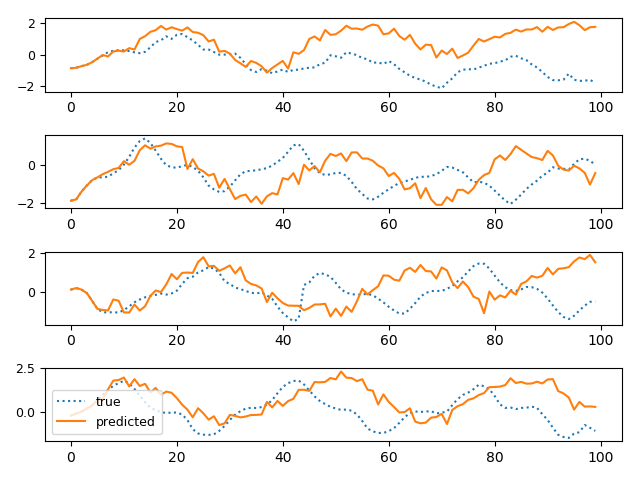
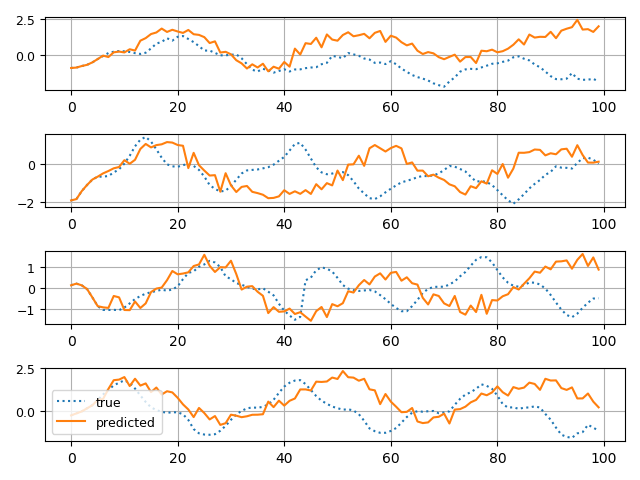
add cost descending figure.

diff --git a/crbm.py b/crbm.py
@@ -1,16 +1,15 @@
-""" Theano CRBM implementation.
+''' Theano CRBM implementation.
 
 For details, see:
 http://www.uoguelph.ca/~gwtaylor/publications/nips2006mhmublv
 Sample data:
 http://www.uoguelph.ca/~gwtaylor/publications/nips2006mhmublv/motion.mat
 
-@author Graham Taylor"""
+@author Graham Taylor'''
 
-from __future__ import print_function
 import numpy
 import numpy as np
-import time
+import timeit
 
 import theano
 import theano.tensor as T
@@ -21,12 +20,12 @@ from motion import load_data
 
 
 class CRBM(object):
-    """Conditional Restricted Boltzmann Machine (CRBM)  """
+    '''Conditional Restricted Boltzmann Machine (CRBM)  '''
     def __init__(self, input=None, input_history=None, n_visible=49,
                  n_hidden=500, delay=6, A=None, B=None, W=None, hbias=None,
                  vbias=None, numpy_rng=None,
                  theano_rng=None):
-        """
+        '''
         CRBM constructor. Defines the parameters of the model along with
         basic operations for inferring hidden from visible (and vice-versa),
         as well as for performing CD updates.
@@ -56,7 +55,7 @@ class CRBM(object):
 
         :param vbias: None for standalone RBMs or a symbolic variable
         pointing to a shared visible units bias
-        """
+        '''
 
         self.n_visible = n_visible
         self.n_hidden = n_hidden
@@ -210,7 +209,7 @@ class CRBM(object):
         return [pre_sigmoid_h1, h1_mean, h1_sample, v1_mean, v1_sample]
 
     def get_cost_updates(self, lr=0.1, k=1):
-        """
+        '''
         This functions implements one step of CD-k
 
         :param lr: learning rate used to train the RBM
@@ -223,7 +222,7 @@ class CRBM(object):
         dictionary contains the update rules for weights and biases but
         also an update of the shared variable used to store the persistent
         chain, if one is used.
-        """
+        '''
 
         # compute positive phase
         pre_sigmoid_ph, ph_mean, ph_sample = \
@@ -275,15 +274,15 @@ class CRBM(object):
         return monitoring_cost, updates
 
     def get_reconstruction_cost(self, updates, pre_sigmoid_nv):
-        """Approximation to the reconstruction error
-        """
+        '''Approximation to the reconstruction error
+        '''
         # sum over dimensions, mean over cases
         recon = T.mean(T.sum(T.sqr(self.input - pre_sigmoid_nv), axis=1))
 
         return recon
 
     def generate(self, orig_data, orig_history, n_samples, n_gibbs=30):
-        """ Given initialization(s) of visibles and matching history, generate
+        ''' Given initialization(s) of visibles and matching history, generate
         n_samples in future.
 
         orig_data : n_seq by n_visibles array
@@ -293,7 +292,7 @@ class CRBM(object):
         n_samples : int
             number of samples to generate forward
         n_gibbs : int
-            number of alternating Gibbs steps per iteration"""
+            number of alternating Gibbs steps per iteration'''
         n_seq = orig_data.shape[0]
         persistent_vis_chain = theano.shared(orig_data)
         persistent_history = theano.shared(orig_history)
@@ -318,7 +317,7 @@ class CRBM(object):
                                                     self.n_visible],
                               ), axis=1)
         # construct the function that implements our persistent chain.
-        # we generate the "mean field" activations for plotting and the actual
+        # we generate the 'mean field' activations for plotting and the actual
         # samples for reinitializing the state of our persistent chain
         sample_fn = theano.function([], [vis_mfs[-1], vis_samples[-1]],
                             updates=updates,
@@ -328,17 +327,18 @@ class CRBM(object):
         #print orig_data[:,1:5]
         #print vis_mf[:,1:5]
         generated_series = np.empty((n_seq, n_samples, self.n_visible))
-        for t in range(n_samples):
-            print("Generating frame %d" % t)
+        for t in range(0, n_samples):
+            print('\rGenerating frame %03d' % t, end='')
             vis_mf, vis_sample = sample_fn()
             generated_series[:, t, :] = vis_mf
+        print('')
         return generated_series
 
 
 def train_crbm(learning_rate=1e-3, training_epochs=300,
              dataset='./data/motion.mat', batch_size=100,
              n_hidden=100, delay=6):
-    """
+    '''
     Demonstrate how to train a CRBM.
     This is demonstrated on mocap data.
 
@@ -350,7 +350,7 @@ def train_crbm(learning_rate=1e-3, training_epochs=300,
 
     :param batch_size: size of a batch used to train the RBM
 
-    """
+    '''
 
     rng = numpy.random.RandomState(123)
     theano_rng = RandomStreams(rng.randint(2 ** 30))
@@ -406,11 +406,11 @@ def train_crbm(learning_rate=1e-3, training_epochs=300,
            name='train_crbm')
 
     plotting_time = 0.
-    start_time = time.clock()
+    start_time = timeit.default_timer()
 
     mean_cost_list = []
     # go through training epochs
-    for epoch in range(training_epochs):
+    for epoch in range(1, training_epochs+1):
 
         # go through the training set
         mean_cost = []
@@ -432,27 +432,30 @@ def train_crbm(learning_rate=1e-3, training_epochs=300,
             mean_cost += [this_cost]
 
         mean_cost_list.append(numpy.mean(mean_cost))
-        print('Training epoch %d, cost is ' % epoch, mean_cost_list[-1])
+        print('\rTraining epoch %03d, cost is %8.5f' % (epoch, mean_cost_list[-1]), end='')
+        if epoch % 50 == 0:
+            print('')
 
     cost_plot(mean_cost_list)
-    end_time = time.clock()
+    end_time = timeit.default_timer()
 
     pretraining_time = (end_time - start_time)
 
-    print(('Training took %f minutes' % (pretraining_time / 60.)))
+    print(('Training took %f seconds' % pretraining_time))
 
     return crbm, batchdata
 
 def cost_plot(mean_cost):
-    import pylab as plt
+    import matplotlib.pyplot as plt
 
     plt.plot(mean_cost, ',')
+    plt.grid(True)
     plt.xlabel('epoch')
     plt.ylabel('mean cost')
-    plt.savefig('cost.png')
+    plt.show()
 
 def plot(data_idx, bd, generated_series):
-    import pylab as plt
+    import matplotlib.pyplot as plt
 
     n_samples = generated_series[0].shape[0] - crbm.delay
     # plot first dimension of each sequence
@@ -465,13 +468,14 @@ def plot(data_idx, bd, generated_series):
         plt.plot(generated_series[i, :n_samples, 1], label='predicted',
                  linestyle='-')
         plt.yticks(fontsize=9)
+        plt.grid(True)
 
     leg = plt.legend()
     ltext = leg.get_texts()  # all the text.Text instance in the legend
     plt.setp(ltext, fontsize=9)
 
     plt.tight_layout()
-    plt.savefig('result.png')
+    plt.show()
 
 if __name__ == '__main__':
     crbm, batchdata = train_crbm()

diff --git a/motion.py b/motion.py
@@ -1,4 +1,5 @@
-""" Mocap data
+'''
+Mocap data
 See: http://www.uoguelph.ca/~gwtaylor/publications/nips2006mhmublv/code.html
 
 Download:
@@ -9,7 +10,7 @@ Data originally from Eugene Hsu, MIT.
 http://people.csail.mit.edu/ehsu/work/sig05stf/
 
 @author Graham Taylor
-"""
+'''
 
 import scipy.io
 import numpy as np

diff --git a/README.md b/README.md
@@ -1,3 +1,5 @@
-Conditional Restricted Boltzmann Machine, forked from https://gist.github.com/gwtaylor/2505670.
+Conditional Restricted Boltzmann Machine, forked from https://gist.github.com/gwtaylor/2505670, implemented by Graham W. Taylor.
+
+![cost](https://raw.githubusercontent.com/ktaneishi/crbm/master/cost.png)
 
 ![result](https://raw.githubusercontent.com/ktaneishi/crbm/master/result.png)
